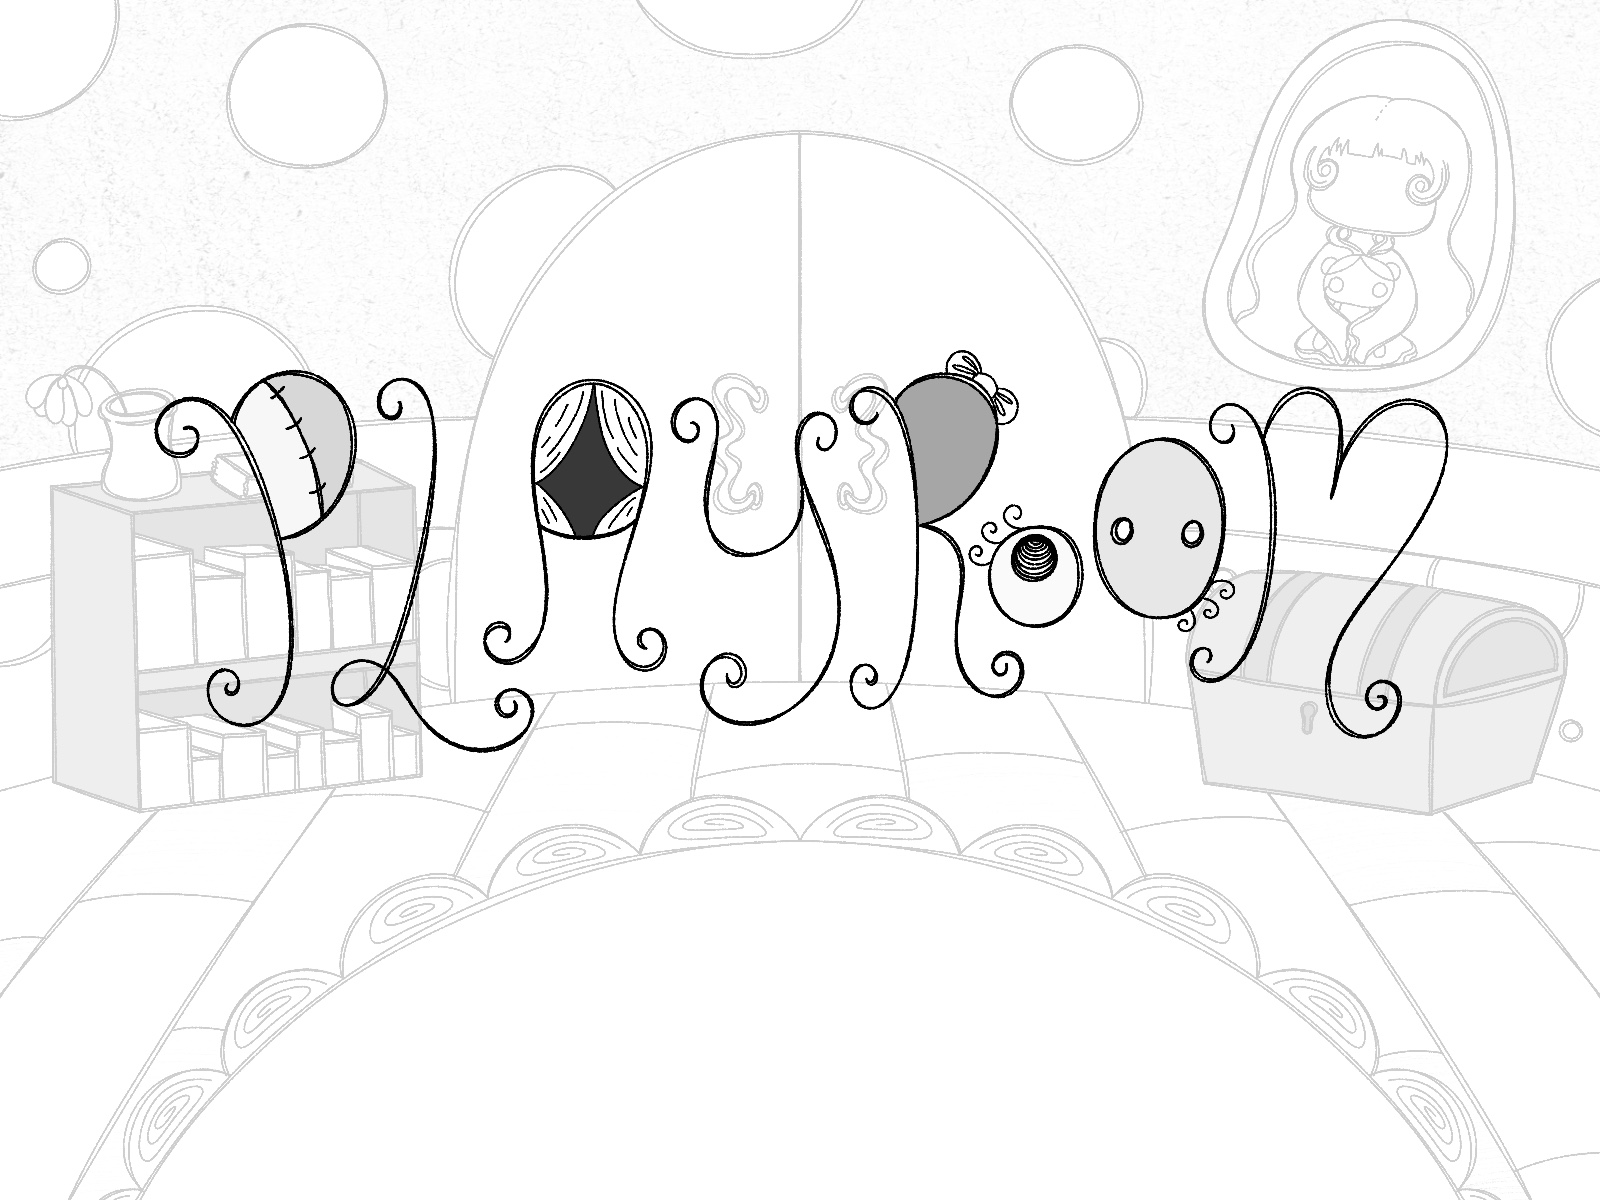
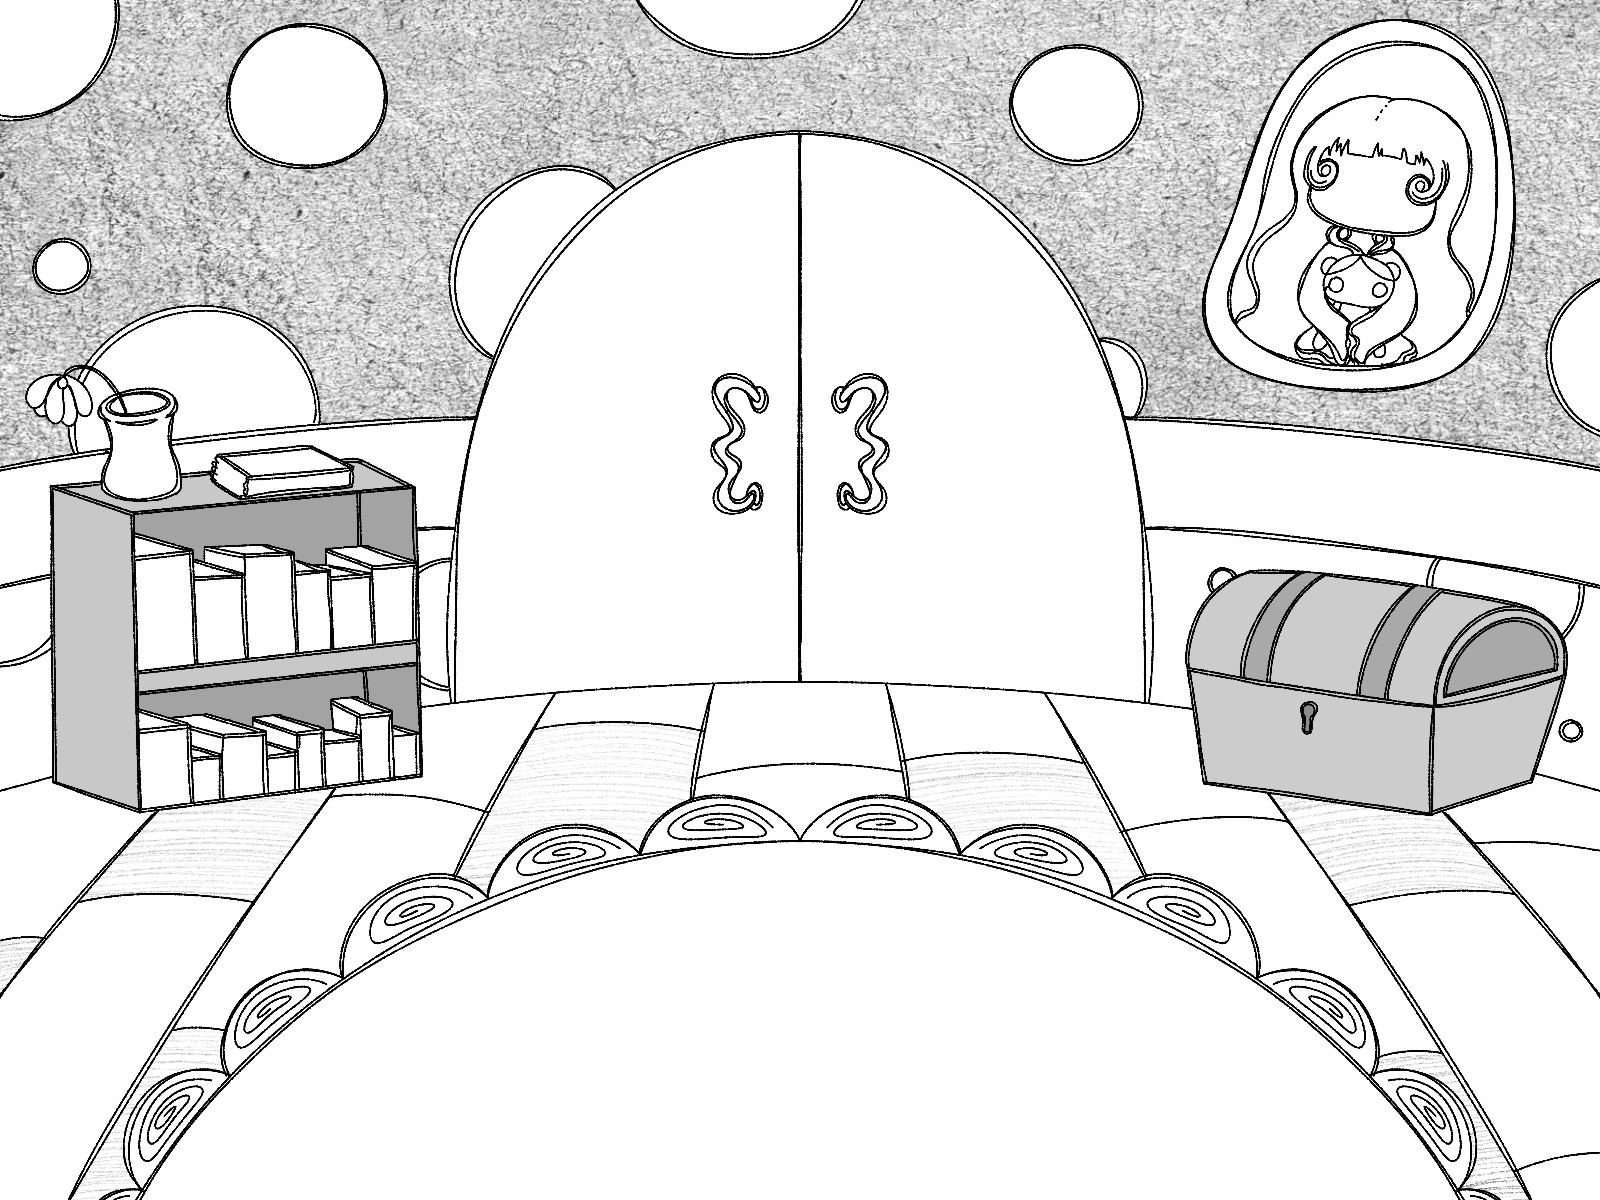
added multiple canvas functionality for game character

diff --git a/src/ui/pages/game.tsx b/src/ui/pages/game.tsx
@@ -1,23 +1,91 @@
 import { useEffect, useRef, useState } from "react";
 import GameBg from "../assets/game/game-bg.png";
-import Character1 from "../assets/game/characters/chara1.png";
-import { setupCanvasWithImage } from "../../helpers/canvasHelper";
+import EmptyDoll from "../assets/game/empty-doll.png";
+import Bars from "../assets/game/interactive/bars/bars.png";
+import Eyes from "../assets/game/characters/body-parts/eyes.png";
+// import Mouth from "../assets/game/characters/body-parts/mouth.png";
+import HairLips from "../assets/game/characters/body-parts/hair.png";
+// import Clothes from "../assets/game/characters/body-parts/clothes.png";
+// import Accessories from "../assets/game/characters/body-parts/accessories.png";
 import { PlayIcon, HappinessIcon, LoveIcon } from "../assets/game/interactive/interactive-index";
+import { setupCanvasWithImage } from "../../helpers/canvasHelper";
+
+// const bodyParts = ["eyes", "mouth", "hairLips", "clothes", "accessories"] as const;
+const bodyParts = ["eyes", "hairLips"] as const;
+type BodyPart = typeof bodyParts[number];
+
+const imageMap: Record<BodyPart, string> = {
+  eyes: Eyes,
+  // mouth: Mouth,
+  hairLips: HairLips,
+  // clothes: Clothes,
+  // accessories: Accessories,
+};
 
 export default function Game() {
-  const characterCanvasRef = useRef<HTMLCanvasElement | null>(null);
-  const [isHovered, setIsHovered] = useState<boolean>(false);
-
+  const canvasRefs = useRef<Record<BodyPart, HTMLCanvasElement | null>>({} as Record<BodyPart, HTMLCanvasElement | null>);
+  const [visibleBodyParts, setVisibleBodyParts] = useState<BodyPart[]>([]);
+  const [hoverStates, setHoverStates] = useState<Record<BodyPart, boolean>>({} as Record<"eyes" | "mouth" | "hairLips" | "clothes" | "accessories", boolean>);
   const interactiveIcons = [HappinessIcon, LoveIcon, PlayIcon];
 
+  // Reveal body parts one by one for demo
   useEffect(() => {
-    setupCanvasWithImage(characterCanvasRef.current, Character1, setIsHovered);
+    // const revealOrder: BodyPart[] = ["eyes", "hairLips", "mouth", "clothes", "accessories"];
+    const revealOrder: BodyPart[] = ["eyes", "hairLips"];
+    revealOrder.forEach((part, i) => {
+      setTimeout(() => {
+        setVisibleBodyParts((prev) => [...prev, part]);
+      }, i * 1000);
+    });
   }, []);
 
+  // Set up canvas when parts are added
+  useEffect(() => {
+    visibleBodyParts.forEach((part) => {
+      const canvas = canvasRefs.current[part];
+      if (canvas) {
+        setupCanvasWithImage(canvas, imageMap[part]);
+      }
+    });
+  }, [visibleBodyParts]);
+
+  const handleMouseMove = (e: React.MouseEvent<HTMLDivElement>) => {
+    const updatedStates: Record<BodyPart, boolean> = { ...hoverStates };
+
+    visibleBodyParts.forEach((part) => {
+      const canvas = canvasRefs.current[part];
+      if (!canvas) return;
+
+      const ctx = canvas.getContext("2d");
+      if (!ctx) return;
+
+      const rect = canvas.getBoundingClientRect();
+      const x = e.clientX - rect.left;
+      const y = e.clientY - rect.top;
+
+      const pixel = ctx.getImageData(x, y, 1, 1).data;
+      updatedStates[part] = pixel[3] > 0;
+    });
+
+    setHoverStates(updatedStates);
+  };
+
   return (
-    <div className="game-container">
+    <div className="game-container" onMouseMove={handleMouseMove}>
       <img src={GameBg} alt="Game Background" className="game-bg-image" />
-      <canvas ref={characterCanvasRef} className={`character-canvas ${isHovered ? "hovered" : ""}`} />
+      <img src={EmptyDoll} alt="Empty Doll" className="character" />
+      <img src={Bars} alt="Bars" className="bars" />
+
+      {visibleBodyParts.map((part) => (
+        <canvas
+          key={part}
+          ref={(el) => {
+            canvasRefs.current[part] = el;
+            return;
+          }} className={`body-part ${hoverStates[part] ? "hovered" : ""}`}
+        />
+      ))}
+
       <div className="interactive-icons-container">
         {interactiveIcons.map((icon, index) => (
           <img key={index} src={icon} className="interactive-icon" />

diff --git a/src/helpers/canvasHelper.ts b/src/helpers/canvasHelper.ts
@@ -1,7 +1,6 @@
 export const setupCanvasWithImage = (
   canvas: HTMLCanvasElement | null,
-  imgSrc: string,
-  setIsHovered: React.Dispatch<React.SetStateAction<boolean>>
+  imgSrc: string
 ) => {
   if (!canvas) return;
 
@@ -20,23 +19,5 @@ export const setupCanvasWithImage = (
 
   img.onerror = () => {
     console.error("Image failed to load:", imgSrc);
-  };
-
-  const checkPixel = (e: MouseEvent) => {
-    const rect = canvas.getBoundingClientRect();
-    const x = e.clientX - rect.left;
-    const y = e.clientY - rect.top;
-    const pixel = ctx.getImageData(x, y, 1, 1).data;
-    setIsHovered(pixel[3] > 0);
-  };
-
-  const handleMouseLeave = () => setIsHovered(false);
-
-  canvas.addEventListener("mousemove", checkPixel);
-  canvas.addEventListener("mouseleave", handleMouseLeave);
-
-  return () => {
-    canvas.removeEventListener("mousemove", checkPixel);
-    canvas.removeEventListener("mouseleave", handleMouseLeave);
   };
 };

diff --git a/src/ui/App.css b/src/ui/App.css
@@ -60,6 +60,7 @@ a,
   position: relative;
   width: 100%;
   height: 100vh;
+  /* background-color: black; */
 }
 
 .game-bg-image {
@@ -69,6 +70,7 @@ a,
   padding: 0;
   margin: 0 auto;
   overflow: hidden;
+  /* opacity: 90%; */
 }
 
 .interactive-icons-container {
@@ -90,7 +92,7 @@ a,
   transform: scale(1.1);
 }
 
-.character-canvas {
+.character {
   position: absolute;
   top: 50%;
   left: 50%;
@@ -99,6 +101,25 @@ a,
   transition: 0.2s ease-in-out;
 }
 
-.character-canvas.hovered {
+.body-part {
+  position: absolute;
+  top: 50%;
+  left: 50%;
+  transform: translate(-50%, -50%);
+  pointer-events: auto;
+  transition: 0.2s ease-in-out;
+}
+
+.body-part.hovered {
   transform: translate(-50%, -50%) scale(1.1);
+}
+
+.bars {
+  position: absolute;
+  top: 5%;
+  left: 5%;
+  width: 400px;
+  /* transform: translate(-50%, -50%); */
+  pointer-events: auto;
+  transition: 0.2s ease-in-out;
 }
